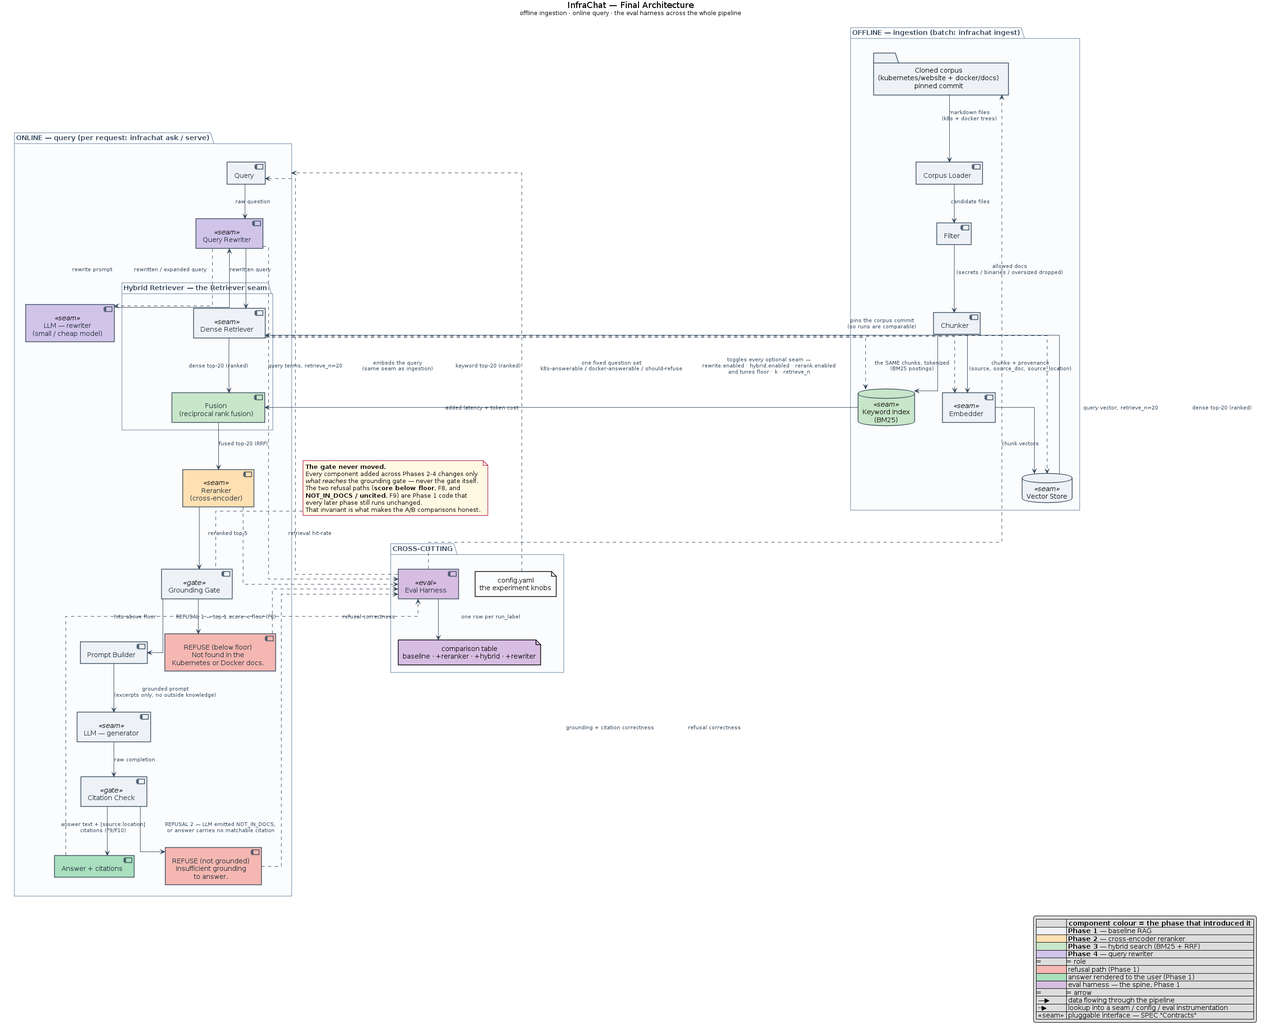
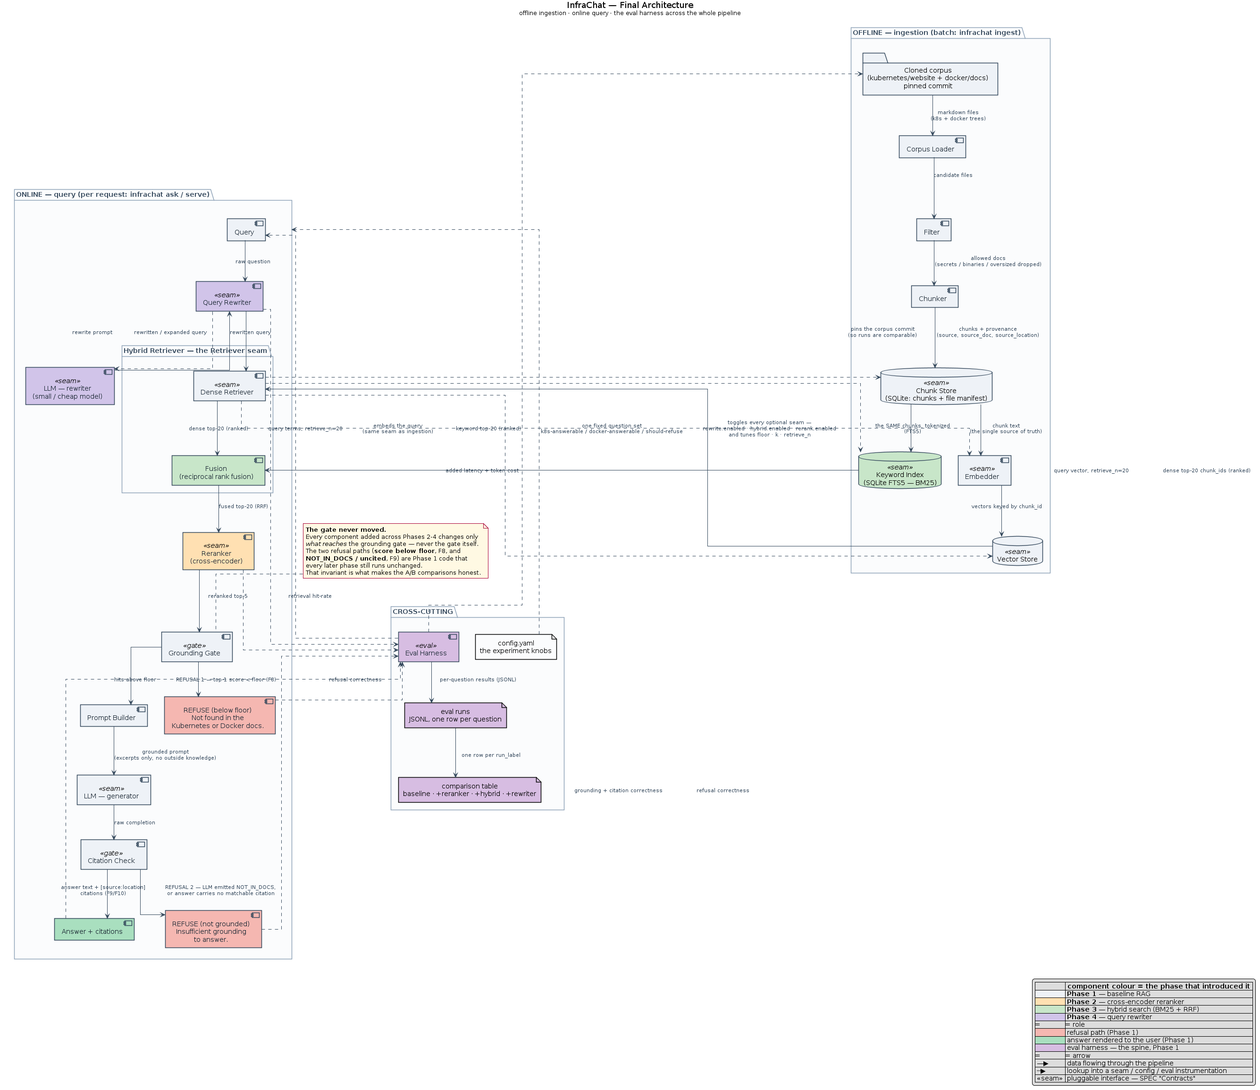
adding a sqllite db for holding documents metadata

diff --git a/docs/ARCHITECTURE.md b/docs/ARCHITECTURE.md
@@ -47,13 +47,18 @@ InfraChat is two pipelines that meet at the stores:
 |---|---|---|
 | Trigger | `infrachat ingest`, run rarely | one user question, `infrachat ask` / `serve` |
 | Shape | batch, whole corpus | single request, latency-sensitive |
-| Writes | Vector Store, Keyword Index | nothing — read-only |
+| Writes | Chunk Store, Vector Store, Keyword Index | nothing — read-only |
 | Cost driver | embedding the corpus once | LLM calls per query |
 | Fails how | loudly, rerun it | **quietly refusing** rather than guessing |
 
-They share exactly one thing: the **`Embedder` seam**. The same model that embedded the chunks
-must embed the query, or the vectors aren't comparable — which is why the diagrams draw that
-dashed line across the package boundary rather than duplicating the component.
+They share exactly two things, and both are drawn as dashed lines crossing the package boundary
+rather than duplicated components:
+
+- **The `Embedder` seam.** The same model that embedded the chunks must embed the query, or the
+  vectors aren't comparable.
+- **The `Chunk Store`.** Vector search returns `chunk_id` + score; the online path hydrates text
+  and provenance from the same store the offline path wrote. Chunk text exists in exactly one
+  place ([ADR-0004](decisions/0004-sqlite-chunk-store.md)).
 
 ## Component catalogue
 
@@ -68,9 +73,10 @@ names here match the diagrams exactly.**
 | **Corpus Loader** | Walks the trees, yields candidate files | F1 | 1 |
 | **Filter** | Drops secrets, binaries, oversized files — *before* embedding | F2 | 1 |
 | **Chunker** | Splits into overlapping chunks, strips frontmatter, attaches provenance | F3 · `Chunk` | 1 |
+| **Chunk Store** «seam» | Holds chunk text + provenance and the file manifest — **the single source of truth** | F5 · `ChunkStore` | 1 |
 | **Embedder** «seam» | Chunk text → vectors (local CPU model by default) | F4 · `Embedder` | 1 |
-| **Vector Store** «seam» | Persists chunks + vectors, answers similarity search | F5 · `VectorStore` | 1 |
-| **Keyword Index (BM25)** «seam» | Persists the *same* chunks tokenized, answers term search | F13 · `KeywordIndex` | 3 |
+| **Vector Store** «seam» | Vectors keyed by `chunk_id`; answers similarity search | F5 · `VectorStore` | 1 |
+| **Keyword Index (BM25)** «seam» | The *same* chunks tokenized — SQLite FTS5, real `bm25()` | F13 · `KeywordIndex` | 3 |
 
 ### Online — query
 
@@ -79,7 +85,7 @@ names here match the diagrams exactly.**
 | **Query** | The user's raw question | — | 1 |
 | **Query Rewriter** «seam» | Rewrites/expands the question before retrieval | F14 · `QueryRewriter` | 4 |
 | **LLM — rewriter** «seam» | The small/cheap model behind the rewriter | `LLMClient` | 4 |
-| **Dense Retriever** «seam» | Embeds the query, pulls `retrieve_n` candidates by similarity | F6 · `Retriever` | 1 |
+| **Dense Retriever** «seam» | Embeds the query, pulls `retrieve_n` candidate ids, hydrates them from the chunk store | F6 · `Retriever` | 1 |
 | **Fusion (RRF)** | Merges the dense and keyword ranked lists by rank | F13 · `Fusion` | 3 |
 | **Reranker** «seam» | Cross-encoder re-scores candidates jointly, keeps top `k` | F12 · `Reranker` | 2 |
 | **Grounding Gate** | Refuses when top-1 score < `floor` | **F8** | 1 |
@@ -169,7 +175,10 @@ exact tokens, so this is the phase where the corpus itself argues for hybrid.
 **RRF fuses by rank, not by score**, so the two arms never need a shared scale
 (an ADR lands with the Phase 3 numbers).
 
-**What it costs:** a second index to build and keep in sync with the vector store.
+**What it costs:** a second index to build. Note what it *doesn't* cost: both indexes are derived
+from the chunk store, so they cannot drift, and either can be rebuilt without re-walking the
+corpus. That's the payoff for [ADR-0004](decisions/0004-sqlite-chunk-store.md) landing before
+this phase rather than after it.
 
 ### Phase 4 — + Query Rewriter
 
@@ -200,6 +209,30 @@ properties fall out of that, and they're the reason the phased plan works at all
 
 See [ADR-0002](decisions/0002-null-object-seams.md).
 
+## Storage & packaging
+
+Three stores, one source of truth — full schema in [SPEC § Storage](SPEC.md#storage):
+
+```
+data/                     ← one Docker volume
+├── infrachat.db          ← SQLite: chunks + files manifest (+ FTS5 index from Phase 3)
+└── chroma/               ← vectors keyed by chunk_id
+```
+
+The vector store and keyword index are **derived artifacts**. Delete either and it rebuilds from
+`infrachat.db` without touching the corpus; delete the whole volume and a full `ingest` rebuilds
+it from the pinned clone.
+
+| Target | Data | Ingest runs there? |
+|---|---|---|
+| Local / home-lab | `./data` mounted as a volume | yes — this is where indexes are built |
+| Public demo (hosted Spaces) | index **baked read-only into the image** | **no** — free-tier filesystems are ephemeral, so a volume wouldn't survive a restart |
+
+**Phase 5 may swap the backend, not the design.** Migrating the chunk store and vectors to
+Postgres + pgvector is a deployment variant, taken *after* Phase 1–4 measurements are locked so
+network latency never lands inside the numbers. `chunk_store:` and `store:` exist to make that a
+swap rather than a rewrite ([ADR-0004](decisions/0004-sqlite-chunk-store.md)).
+
 ## Assumptions & risks (on the record)
 
 - **The corpus is a pinned snapshot.** No live fetching in v1 — eval runs are only comparable if
@@ -214,6 +247,9 @@ See [ADR-0002](decisions/0002-null-object-seams.md).
   `hits[0].score`, so whatever populates that field defines what `floor` means. This is the
   sharpest edge in the whole design: it is the one place where adding a component *can* silently
   change gate behaviour, and it must be re-checked whenever a stage that rewrites scores is enabled.
+- **SQLite is a single-writer store.** Irrelevant as designed — ingestion is one batch process
+  and the query path is read-only — but it's the constraint that bites first if ingestion is ever
+  parallelised.
 - **One generator call per query.** No agentic multi-hop — cost and latency stay flat and
   predictable, at the cost of questions that genuinely need two retrieval hops.
 - **Single-user, no auth, no rate limiting.** A public Spaces demo is exposed to whoever finds it;

diff --git a/docs/SPEC.md b/docs/SPEC.md
@@ -34,7 +34,7 @@ each measured against that baseline.
 | **F2** | **Filter** — include only allowed doc types; hard-exclude secrets, binaries, and oversized files *before* embedding. |
 | **F3** | **Chunk** — split docs into overlapping chunks, each carrying source, doc path, and location; strip markdown frontmatter and template cruft. |
 | **F4** | **Embed** — every chunk gets a vector embedding via a pluggable embedder (local model default, $0). |
-| **F5** | **Store** — chunks + embeddings persist in a pluggable vector store; ingestion is repeatable and incremental per source. |
+| **F5** | **Store** — chunk text + provenance persist in the **chunk store** (the source of truth); embeddings in a pluggable vector store. Re-ingestion is **incremental**: a file whose content hash is unchanged is skipped; a changed file has its chunks deleted and rebuilt. |
 | **F6** | **Retrieve (dense)** — for a query, return the top-k chunks by vector similarity, each with score, source, and location. |
 | **F7** | **Grounded answer** — the LLM answers *using only retrieved chunks*; every answer carries the citations it used. |
 | **F8** | **Refuse below floor** — if top-1 similarity is below a configured floor, return an explicit *"not in the docs"* refusal instead of answering. |
@@ -82,6 +82,55 @@ author's.
 ⚠ `score` is the field the grounding gate reads. Whatever stage last wrote it defines what
 `floor` means — see [ARCHITECTURE.md § Assumptions](ARCHITECTURE.md#assumptions--risks-on-the-record).
 
+## Storage
+
+Three stores, **one source of truth**. None of them holds the documents: the markdown lives on
+disk in the cloned repos at a pinned commit. What's stored is derived — chunks, vectors, postings
+— plus the bookkeeping that makes re-ingestion incremental.
+
+| Store | Holds | Backed by | Why it exists |
+|---|---|---|---|
+| **Chunk Store** | chunk text + provenance, and the file manifest | SQLite — one file | the single source of truth every index is derived from |
+| **Vector Store** | vectors keyed by `chunk_id` | Chroma | approximate nearest-neighbour search |
+| **Keyword Index** (Phase 3) | the same chunks, tokenized | SQLite **FTS5**, same file | term search with a real `bm25()` ranking |
+
+### The two tables
+
+| Table | One row per | Carries |
+|---|---|---|
+| `chunks` | chunk | `id`, `text`, `source`, `source_doc`, `source_location`, `file_id` |
+| `files` | ingested file | `path`, `source`, `content_hash`, `ingested_at`, `chunk_count` |
+
+### Why the manifest (F5)
+
+`files` is what makes "incremental" implementable. On re-ingest, each file's content hash is
+compared: **unchanged → skip**; **changed → delete its chunks by `file_id`, re-chunk, re-embed,
+re-index**. Without it, a second ingest either duplicates every chunk or forces a full rebuild —
+and there is no way to remove the chunks of a document that upstream deleted.
+
+### Read path
+
+Vector search returns **`chunk_id` + score**; text and provenance are hydrated from the chunk
+store. **Chunk text is stored exactly once.** The cost is one extra local lookup per query; the
+benefit is that the vector store and keyword index are both *derived artifacts* that can be
+rebuilt from the chunk store without re-walking the corpus.
+
+### Data directory & packaging
+
+Everything lives under one data directory (`data_dir`, default `./data`): `infrachat.db` plus the
+Chroma directory. That directory is **a single Docker volume** — one mount, one thing to back up,
+one thing to delete when starting clean.
+
+⚠ **The public demo does not mount a volume.** Free-tier hosted Spaces have an ephemeral
+filesystem, so the deployed image ships a **pre-built, read-only index** and `infrachat ingest`
+never runs inside it. Ingestion is a local/home-lab job whose output is an artifact.
+
+### Eval results are not in the database
+
+Per-question eval results are **flat JSONL** — `eval/runs/<run_label>.jsonl`, one row per
+question, committed to the repo. Four runs of ~30 questions is not a database's problem, and a
+committed results file is readable by anyone reviewing the repo. See [EVAL.md](EVAL.md).
+
 ## The seams (pluggable interfaces)
 
 The pipeline depends **only** on these. Every optional component slots into an existing seam
@@ -90,6 +139,7 @@ system run the same code path.
 
 | Seam | Responsibility | Real from | Baseline default |
 |---|---|---|---|
+| `ChunkStore` | persist chunks + the file manifest; hydrate chunks by id | Phase 1 | SQLite |
 | `Embedder` | text → vectors. **The same instance embeds chunks and queries** | Phase 1 | local CPU model |
 | `VectorStore` | persist chunks + vectors; similarity search for `k` | Phase 1 | Chroma |
 | `Retriever` | question → ranked candidates | Phase 1 | dense-only |
@@ -178,7 +228,9 @@ infrachat:
   chunk:
     size: 800
     overlap: 100
+  data_dir: "./data"                   # infrachat.db + chroma/ — mounted as one Docker volume
   embedder: local                      # local | api
+  chunk_store: sqlite                  # sqlite | postgres (see ADR-0004)
   store: chroma                        # chroma | pgvector
   retrieval:
     retrieve_n: 20                     # candidates fetched before rerank
@@ -202,6 +254,7 @@ infrachat:
     max_context_chunks: 5
   eval:
     question_set: "eval/questions.yaml"
+    results_dir: "eval/runs"           # <run_label>.jsonl, one row per question
     run_label: "baseline"              # names this config's results for comparison (F11)
 ```
 
@@ -236,6 +289,9 @@ enabling the reranker or rewriter does not.
 - **Agentic multi-hop retrieval** — one retrieve (+optional rerank) and one generator call per query.
 - **Fine-tuning / distillation** — this is *retrieval*, not training. Deliberately, and cheaply.
 - **Multi-user / auth** — single-user local tool.
+- **A hosted database during Phases 1–4** — the stores are local files behind a Docker volume, so
+  latency measurements stay clean. Migrating to Postgres/pgvector is a **Phase 5 deployment**
+  concern ([ADR-0004](decisions/0004-sqlite-chunk-store.md)).
 
 ## Ethics & safety (non-negotiable)
 

diff --git a/docs/decisions/0004-sqlite-chunk-store.md b/docs/decisions/0004-sqlite-chunk-store.md
@@ -1,0 +1,89 @@
+# ADR-0004: SQLite as the chunk store; Postgres deferred to deployment
+
+- **Status:** Accepted
+- **Date:** 2026-08-30
+- **Phase:** 1 (forced), revisited at 5
+
+## Context
+
+Two holes appeared while reviewing the architecture, and they turn out to be the same hole.
+
+1. **F5 says ingestion is "incremental per source" — with no mechanism.** To skip an unchanged
+   file you need its content hash from last time; to re-ingest a changed one you need to find and
+   delete the chunks it previously produced. Neither is possible without bookkeeping that
+   survives between runs.
+2. **From Phase 3 there are two indexes over the same chunks** — vectors in Chroma, postings in a
+   keyword index. If each is built by independently re-walking the corpus, they can silently
+   disagree, and "the same chunks, tokenized" becomes an aspiration rather than a fact.
+
+Both dissolve if chunks live in **one** place that the indexes are *derived from*. So the question
+isn't whether to add a store — it's which one.
+
+The forces pulling on that choice:
+
+- **Latency measurements must be clean.** [EVAL.md](../EVAL.md) commits to reporting p50/p95, and
+  Phase 4's entire verdict is *"does the query rewriter earn its latency?"* Anything that puts a
+  variable network hop under every retrieval contaminates the number the project exists to produce.
+- **Phase 3's claim is specifically about BM25.** Whatever backs the keyword index has to rank
+  with BM25, not something adjacent to it.
+- **There is a portfolio argument for Postgres.** *"Hybrid retrieval over Postgres with pgvector"*
+  is a stronger line than *"a SQLite file."* That's a real consideration, not a frivolous one.
+- **Everything runs in a container with the data directory as a volume**, so "local" here means
+  *in the same container*, not *on the developer's laptop specifically*.
+
+## Decision
+
+**SQLite is the chunk store** — one file holding `chunks` and the `files` manifest, and from
+Phase 3 the FTS5 keyword index too. Chroma remains the vector store, keyed by `chunk_id`. Chunk
+text is stored **once**, in SQLite; vector search returns ids and scores, and the chunk store
+hydrates them.
+
+The whole data directory (`infrachat.db` + the Chroma directory) is **a single Docker volume**.
+
+**Postgres is not rejected — it is sequenced.** Migrating to Postgres + pgvector is a **Phase 5
+deployment variant**, performed *after* the Phase 1–4 measurements are locked.
+
+## Alternatives considered
+
+- **Chroma only, no chunk store.** Chroma holds documents and metadata, so you *can* stash content
+  hashes in chunk metadata and rebuild BM25 from stored documents at load. Zero new dependencies —
+  and it uses a vector database as a relational store. The first query that isn't "find me similar
+  vectors" (*which chunks came from this file?*) is awkward, and the answer to "where does a
+  chunk's text live?" becomes "in two places."
+- **Postgres (self-hosted or Neon) from Phase 1.** One store for chunks, manifest, vectors, and
+  keyword search — genuinely tidier, and the CV line is real. Rejected for two reasons:
+  - **It contaminates the measurements.** A hosted instance puts a network round-trip, and on
+    free tiers a cold start after idle, underneath every retrieval — inside the p95 numbers that
+    Phase 4's verdict depends on.
+  - **Postgres core full-text search is `ts_rank`, not BM25.** True BM25 needs an extension
+    (ParadeDB's `pg_search` or similar) whose availability on a managed provider must be verified.
+    Approximating BM25 undercuts the one thing Phase 3 sets out to measure. SQLite's FTS5 ships
+    `bm25()` in the box.
+- **DuckDB / LanceDB.** Both plausible; neither beats SQLite for a small key-value-shaped chunk
+  store, and each adds a dependency to learn for no measurable gain here.
+- **Eval results in the database.** Rejected: four runs of ~30 questions is not a database's
+  problem, and a committed JSONL file is readable by anyone reviewing the repo.
+
+## Consequences
+
+- ✅ **F5 becomes implementable.** Content-hash comparison makes re-ingest genuinely incremental,
+  including deleting the chunks of documents that upstream removed.
+- ✅ **The two indexes can't drift** — both are derived from the chunk store, and either can be
+  rebuilt from it without re-walking the corpus.
+- ✅ **Real BM25** in Phase 3, so the hybrid measurement means what it says.
+- ✅ **Clean latency numbers** — no network hop under retrieval during the measured phases.
+- ✅ **One volume** to mount, back up, or delete; no connection string, no secret, no cold start.
+- ⚠ **One extra local lookup per query** to hydrate chunk text. Microseconds, same process —
+  named here so it isn't a surprise.
+- ⚠ **Two storage technologies** (SQLite + Chroma) instead of one. Accepted: collapsing them
+  means Postgres, which costs the measurement integrity above.
+- ⚠ **SQLite's write concurrency is one writer.** Irrelevant here — ingestion is a single-process
+  batch job and the query path is read-only — but it is the constraint that would bite first if
+  the tool ever ingested concurrently.
+- ⚠ **The deployed demo can't use the volume.** Free-tier hosted Spaces have an ephemeral
+  filesystem, so the image ships a pre-built read-only index and never ingests. Home-lab
+  deployment keeps the volume.
+- 🔭 **Revisit at Phase 5**, deliberately: migrate to Postgres + pgvector as a deployment variant
+  once the measurements are locked. The `chunk_store:` and `store:` config keys exist so this is
+  a swap, not a rewrite ([ADR-0002](0002-null-object-seams.md)). Revisit sooner only if the corpus
+  grows past what a single SQLite file serves comfortably.

diff --git a/docs/ROADMAP.md b/docs/ROADMAP.md
@@ -11,11 +11,11 @@
 
 | # | Phase | Delivers | Measure | Diagram |
 |---|---|---|---|---|
-| **1** | **Baseline RAG** — all systems wired | ingest → filter → chunk → embed → vector store; dense retrieve → grounding gate (floor → refuse) → LLM answer with citations; **eval harness** | **Eval run #1 → baseline numbers** | [P1](images/phase1-baseline.png) |
+| **1** | **Baseline RAG** — all systems wired | ingest → filter → chunk → **chunk store** → embed → vector store; dense retrieve → grounding gate (floor → refuse) → LLM answer with citations; **eval harness** | **Eval run #1 → baseline numbers** | [P1](images/phase1-baseline.png) |
 | **2** | **+ Reranker** | insert a cross-encoder reranker between retrieve and ground (retrieve top-20 → rerank → keep top-5) | Eval run #2 vs. baseline → *did reranking help?* | [P2](images/phase2-reranker.png) |
 | **3** | **+ Hybrid search** | add a BM25 keyword index; fuse dense + keyword (reciprocal rank fusion) before reranking | Eval run #3 vs. Phase 2 → *did hybrid help, esp. on exact-term queries?* | [P3](images/phase3-hybrid.png) |
 | **4** | **+ Query rewriter** | prepend a small/cheap LLM that rewrites/expands the query before retrieval | Eval run #4 vs. Phase 3 → *does rewriting earn its latency?* | [P4](images/phase4-query-rewriter.png) |
-| **5** | **Deep-dive + deploy + write-up** | consolidate all runs into one comparison table; deploy to HF Spaces / home-lab; write the blog/report | The story: baseline → +reranker → +hybrid → +rewriter | [final](images/final-architecture.png) |
+| **5** | **Deep-dive + deploy + write-up** | consolidate all runs into one comparison table; deploy to HF Spaces / home-lab; **optional Postgres + pgvector migration** ([ADR-0004](decisions/0004-sqlite-chunk-store.md)); write the blog/report | The story: baseline → +reranker → +hybrid → +rewriter | [final](images/final-architecture.png) |
 
 Each phase's diagram shows what it adds, in amber, on top of everything before it — the set reads
 as one system growing. Sources: [diagrams/](diagrams/); walkthrough:
@@ -75,6 +75,9 @@ Each component phase follows the same loop:
   API fields — the queries dense embeddings often miss. Design a few such questions into the eval set.
 - **Fetching the docs live is a later extension**, outside this roadmap. It earns a phase only once
   Phases 1–5 hit "done."
+- **Storage stays local through Phase 4.** The stores are files behind one Docker volume so no
+  network hop lands inside the p95 numbers Phase 4 is judged on. Postgres/pgvector is a Phase 5
+  deployment variant, taken after the measurements are locked.
 
 ## Current status
 
@@ -90,5 +93,6 @@ Each component phase follows the same loop:
   - ⏳ Clone the two doc repos; confirm target subfolders + their markdown shape.
   - ⏳ Corpus filter (F2) — implement first; excluding secrets *before* embedding is the hard rule.
   - ⏳ Frontmatter-stripping chunker — the docs carry YAML frontmatter + template shortcodes.
+  - ⏳ Chunk store (SQLite): `chunks` + `files` manifest — the source of truth both indexes derive from.
   - ⏳ Local embedder + vector store behind the `Embedder` / `VectorStore` seams.
   - ⏳ Eval harness skeleton + first fixed question set (the spine).

diff --git a/docs/decisions/README.md b/docs/decisions/README.md
@@ -13,6 +13,7 @@ and add a row below. When a decision changes, write a *new* ADR and mark the old
 | [0001](0001-refuse-over-fabricate.md) | Refuse over fabricate — two independent gates, floor and citation | 1 | Accepted |
 | [0002](0002-null-object-seams.md) | Every optional component is a config-toggled null object | 1 | Accepted |
 | [0003](0003-eval-harness-is-phase-1.md) | Build the eval harness in Phase 1, before any optional component | 1 | Accepted |
+| [0004](0004-sqlite-chunk-store.md) | SQLite as the chunk store; Postgres deferred to deployment | 1 | Accepted |
 
 **Start with [ADR-0001](0001-refuse-over-fabricate.md)** — it's the decision the rest of the
 system is arranged around.
@@ -27,6 +28,7 @@ measurement or the constraint that settled it.
 |---|---|---|
 | **Chunking strategy** — fixed-size windows vs. markdown-heading-aware splitting | Phase 1 | the real shape of the two doc trees, once walked. It silently caps every later component's ceiling ([ARCHITECTURE § Assumptions](../ARCHITECTURE.md#assumptions--risks-on-the-record)). |
 | **Corpus refresh** — stay on a pinned clone, or add clone-and-refresh | Phase 1 | whether stale answers actually bite during the first eval runs |
+| **Postgres migration** — move the chunk store and vectors to Postgres/pgvector for the public deploy | Phase 5 | whether the hosted demo needs it, once the measurements are locked ([ADR-0004](0004-sqlite-chunk-store.md) sequences this deliberately) |
 | **LLM provider + model** — which OpenAI-compatible endpoint, hosted or local | Phase 1 | cost and refusal-obedience on the real question set |
 | **Two-stage retrieval sizing** — `retrieve_n` = 20, `k` = 5 | Phase 2 | reranker latency vs. the hit-rate/MRR delta |
 | **Fusion method** — reciprocal rank fusion vs. score-weighted | Phase 3 | whether the two arms' scores turn out comparable at all |

diff --git a/docs/README.md b/docs/README.md
@@ -20,8 +20,8 @@ the rest of the system is arranged around. If you only look at one picture, look
 
 ## The one-paragraph version
 
-InfraChat ingests two markdown documentation trees **offline** (load → filter → chunk → embed →
-index), and answers questions **online** (rewrite → retrieve → fuse → rerank → **grounding gate**
+InfraChat ingests two markdown documentation trees **offline** (load → filter → chunk → store →
+embed → index), and answers questions **online** (rewrite → retrieve → fuse → rerank → **grounding gate**
 → generate → citation check). The gate is the point of the project: if retrieval confidence is
 below a floor, or the model cannot ground an answer in the retrieved excerpts, InfraChat
 **refuses** instead of guessing. Every optional component sits behind an interface and defaults

diff --git a/docs/EVAL.md b/docs/EVAL.md
@@ -93,6 +93,15 @@ numbers by making the gate trigger-happy.
 
 Quality that costs 2× latency is a tradeoff, not a win. Phase 4 is judged on both columns.
 
+## Where results land
+
+Per-question results are written as **flat JSONL** — `eval/runs/<run_label>.jsonl`, one row per
+question, committed to the repo. Deliberately *not* in the database: four runs of ~30 questions
+isn't a database's problem, and a committed results file is readable by anyone reviewing the repo
+([ADR-0004](decisions/0004-sqlite-chunk-store.md)). Each row carries the question id, class,
+retrieved doc ids, whether it was refused, the citations, and latency; each file carries the run's
+corpus commit, embedder, generator model, and date in its first line.
+
 ## The comparison table
 
 Every phase appends one row. This table *is* the Phase 5 write-up:

diff --git a/README.md b/README.md
@@ -22,3 +22,4 @@ Two rules the whole system is built around: **an answer without a citation is a 
 | **Why** (the ADR trail) | [docs/decisions/](docs/decisions/) |
 
 **Start here → [docs/README.md](docs/README.md)** · Status: **Phase 0** — docs and diagrams in place, no code yet ([ROADMAP](docs/ROADMAP.md#current-status))
+    
